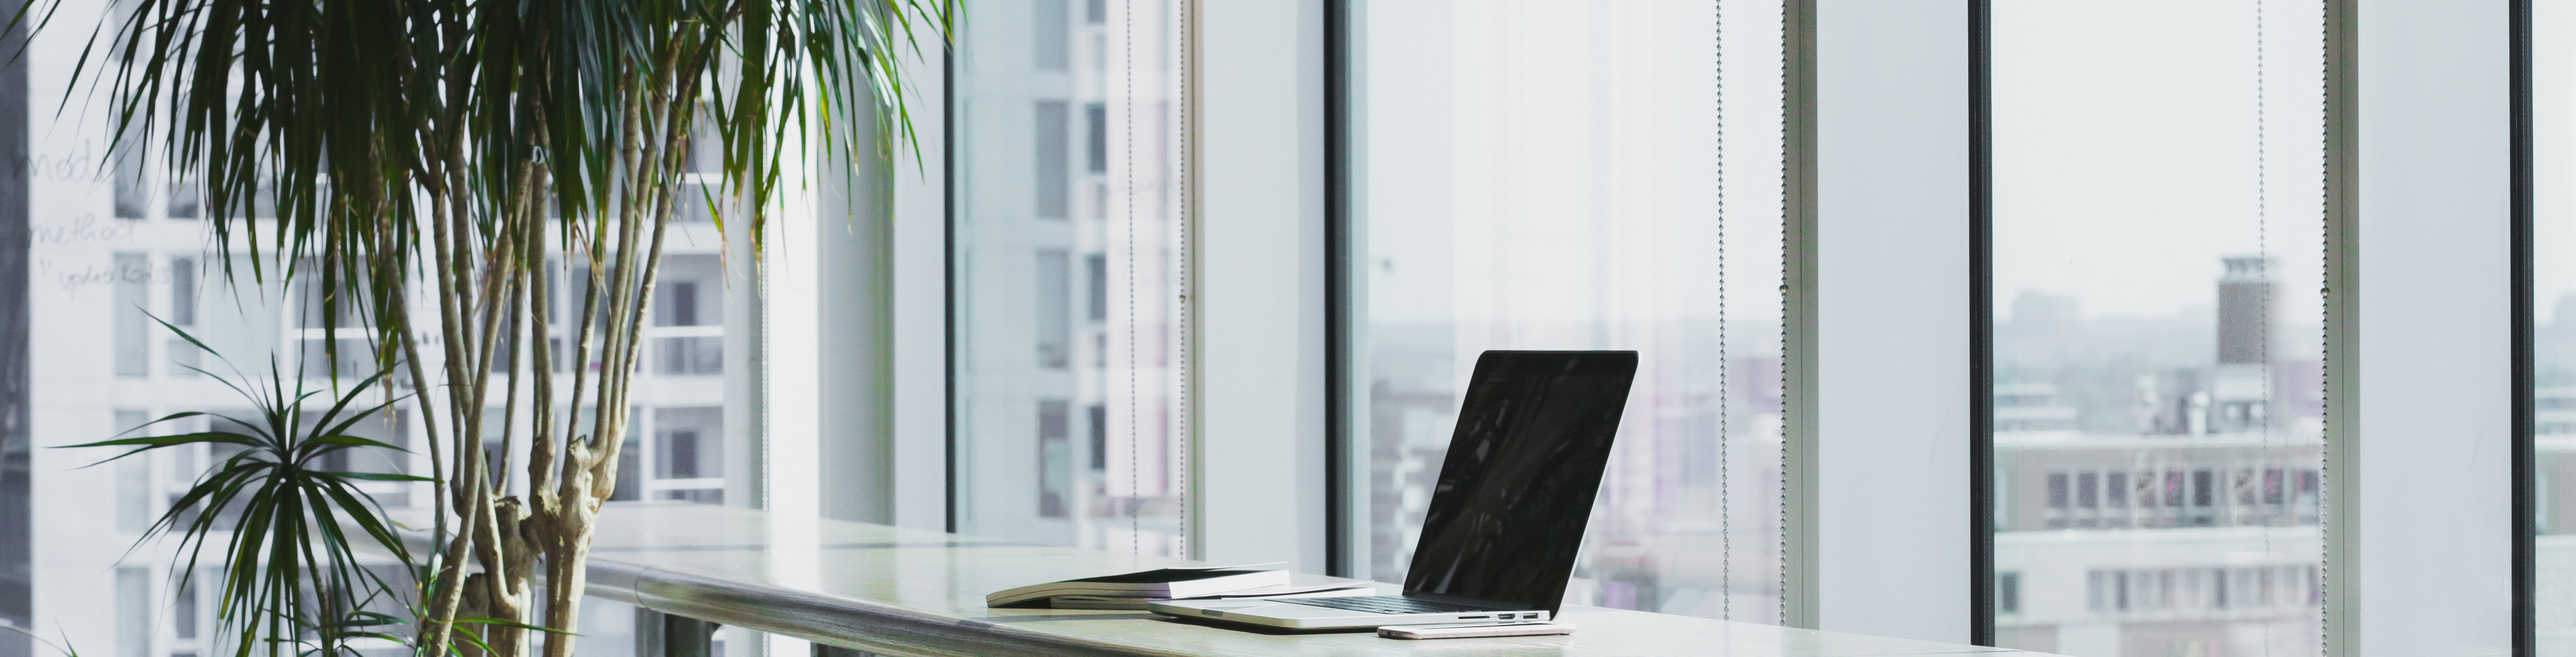
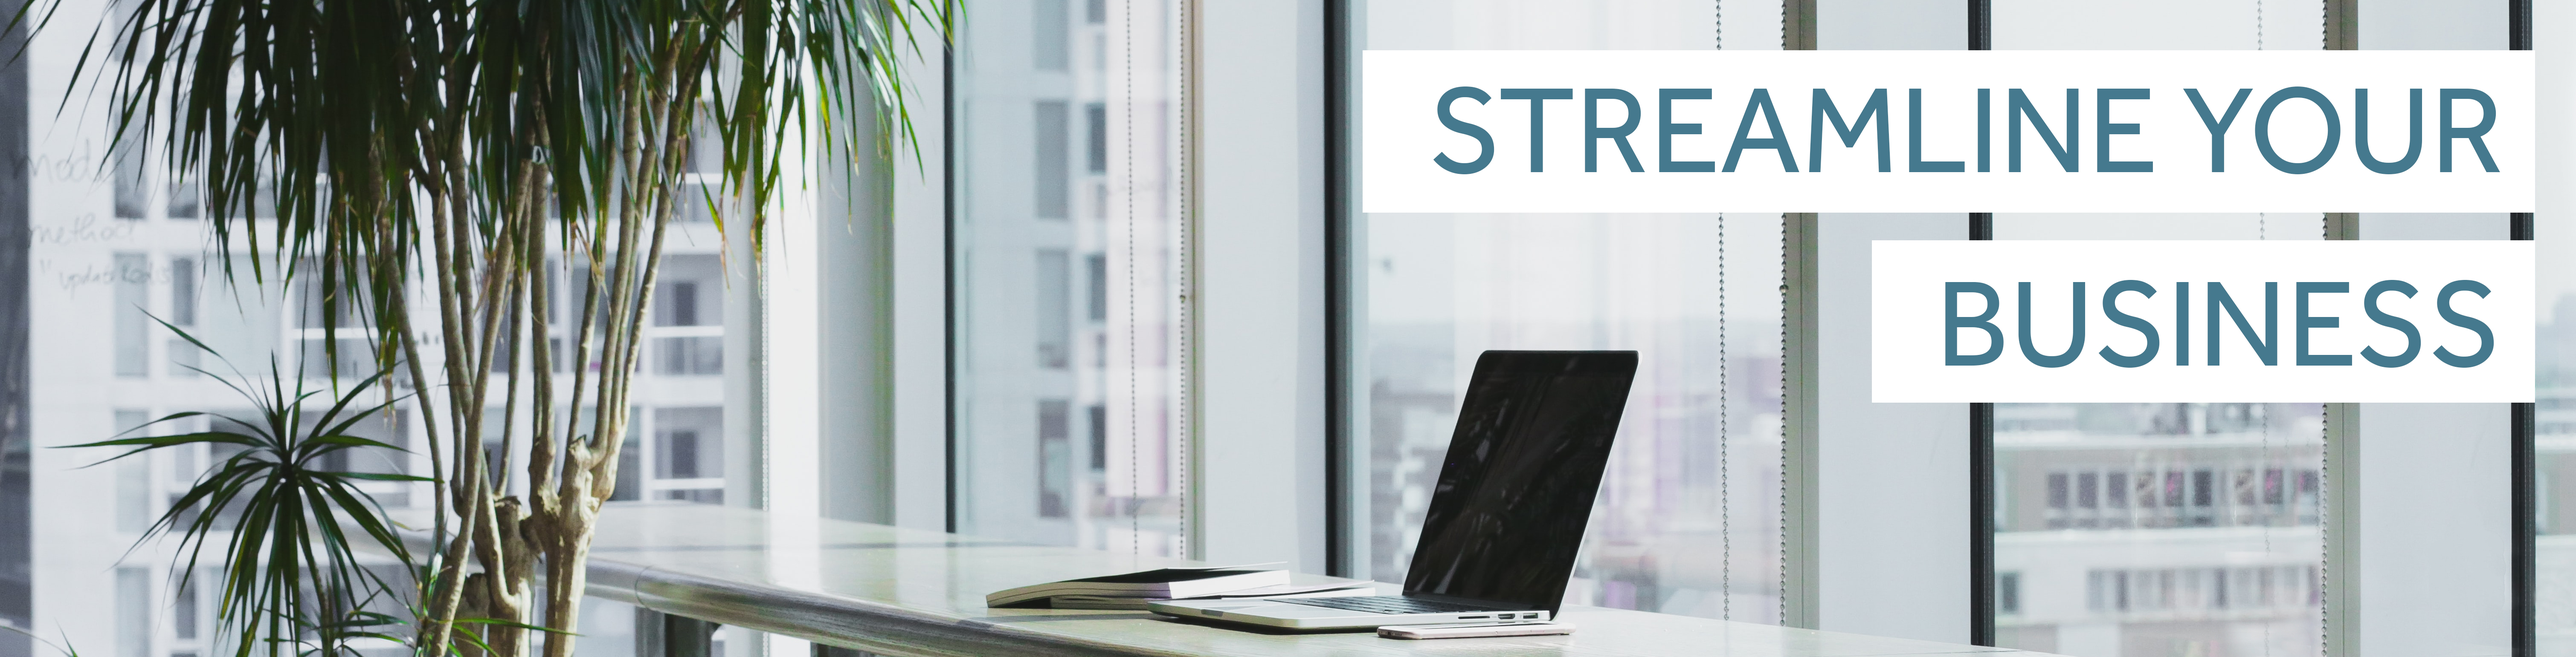
add image and align

Changed region(s): [[0.5291, 0.0623, 0.996, 0.6226]]

diff --git a/src/Components/ContentBody/ContentBody.jsx b/src/Components/ContentBody/ContentBody.jsx
@@ -11,7 +11,7 @@ const ContentBody = () => {
 					success and stay on track
 				</h2>
 				<img src={stock_test} alt="test-img" id="test-img" />
-				<h2>Streamline your Business</h2>
+				{/* <h2>Streamline your Business</h2> */}
 				<p>
 					Whether you are starting a new small business or trying to organize
 					your existing business infrastructure, Streamlined Partners will work

diff --git a/src/Components/About/About.scss b/src/Components/About/About.scss
@@ -2,7 +2,6 @@
 
 .about-section {
 	padding: 20px 15px;
-	background-color: $blue-transparent;
 	margin: 5px 15px;
 	border-radius: 5px;
 }

diff --git a/src/Components/ContentBody/ContentBody.scss b/src/Components/ContentBody/ContentBody.scss
@@ -22,7 +22,8 @@
 }
 
 #test-img {
-	width: 85%;
+	width: 100%;
+	margin-bottom: 25px;
 }
 
 #service-title {

diff --git a/src/App.css b/src/App.css
@@ -1,0 +1,5 @@
+.App {
+  text-align: center;
+  width: 85%;
+  margin: 0 auto;
+}
